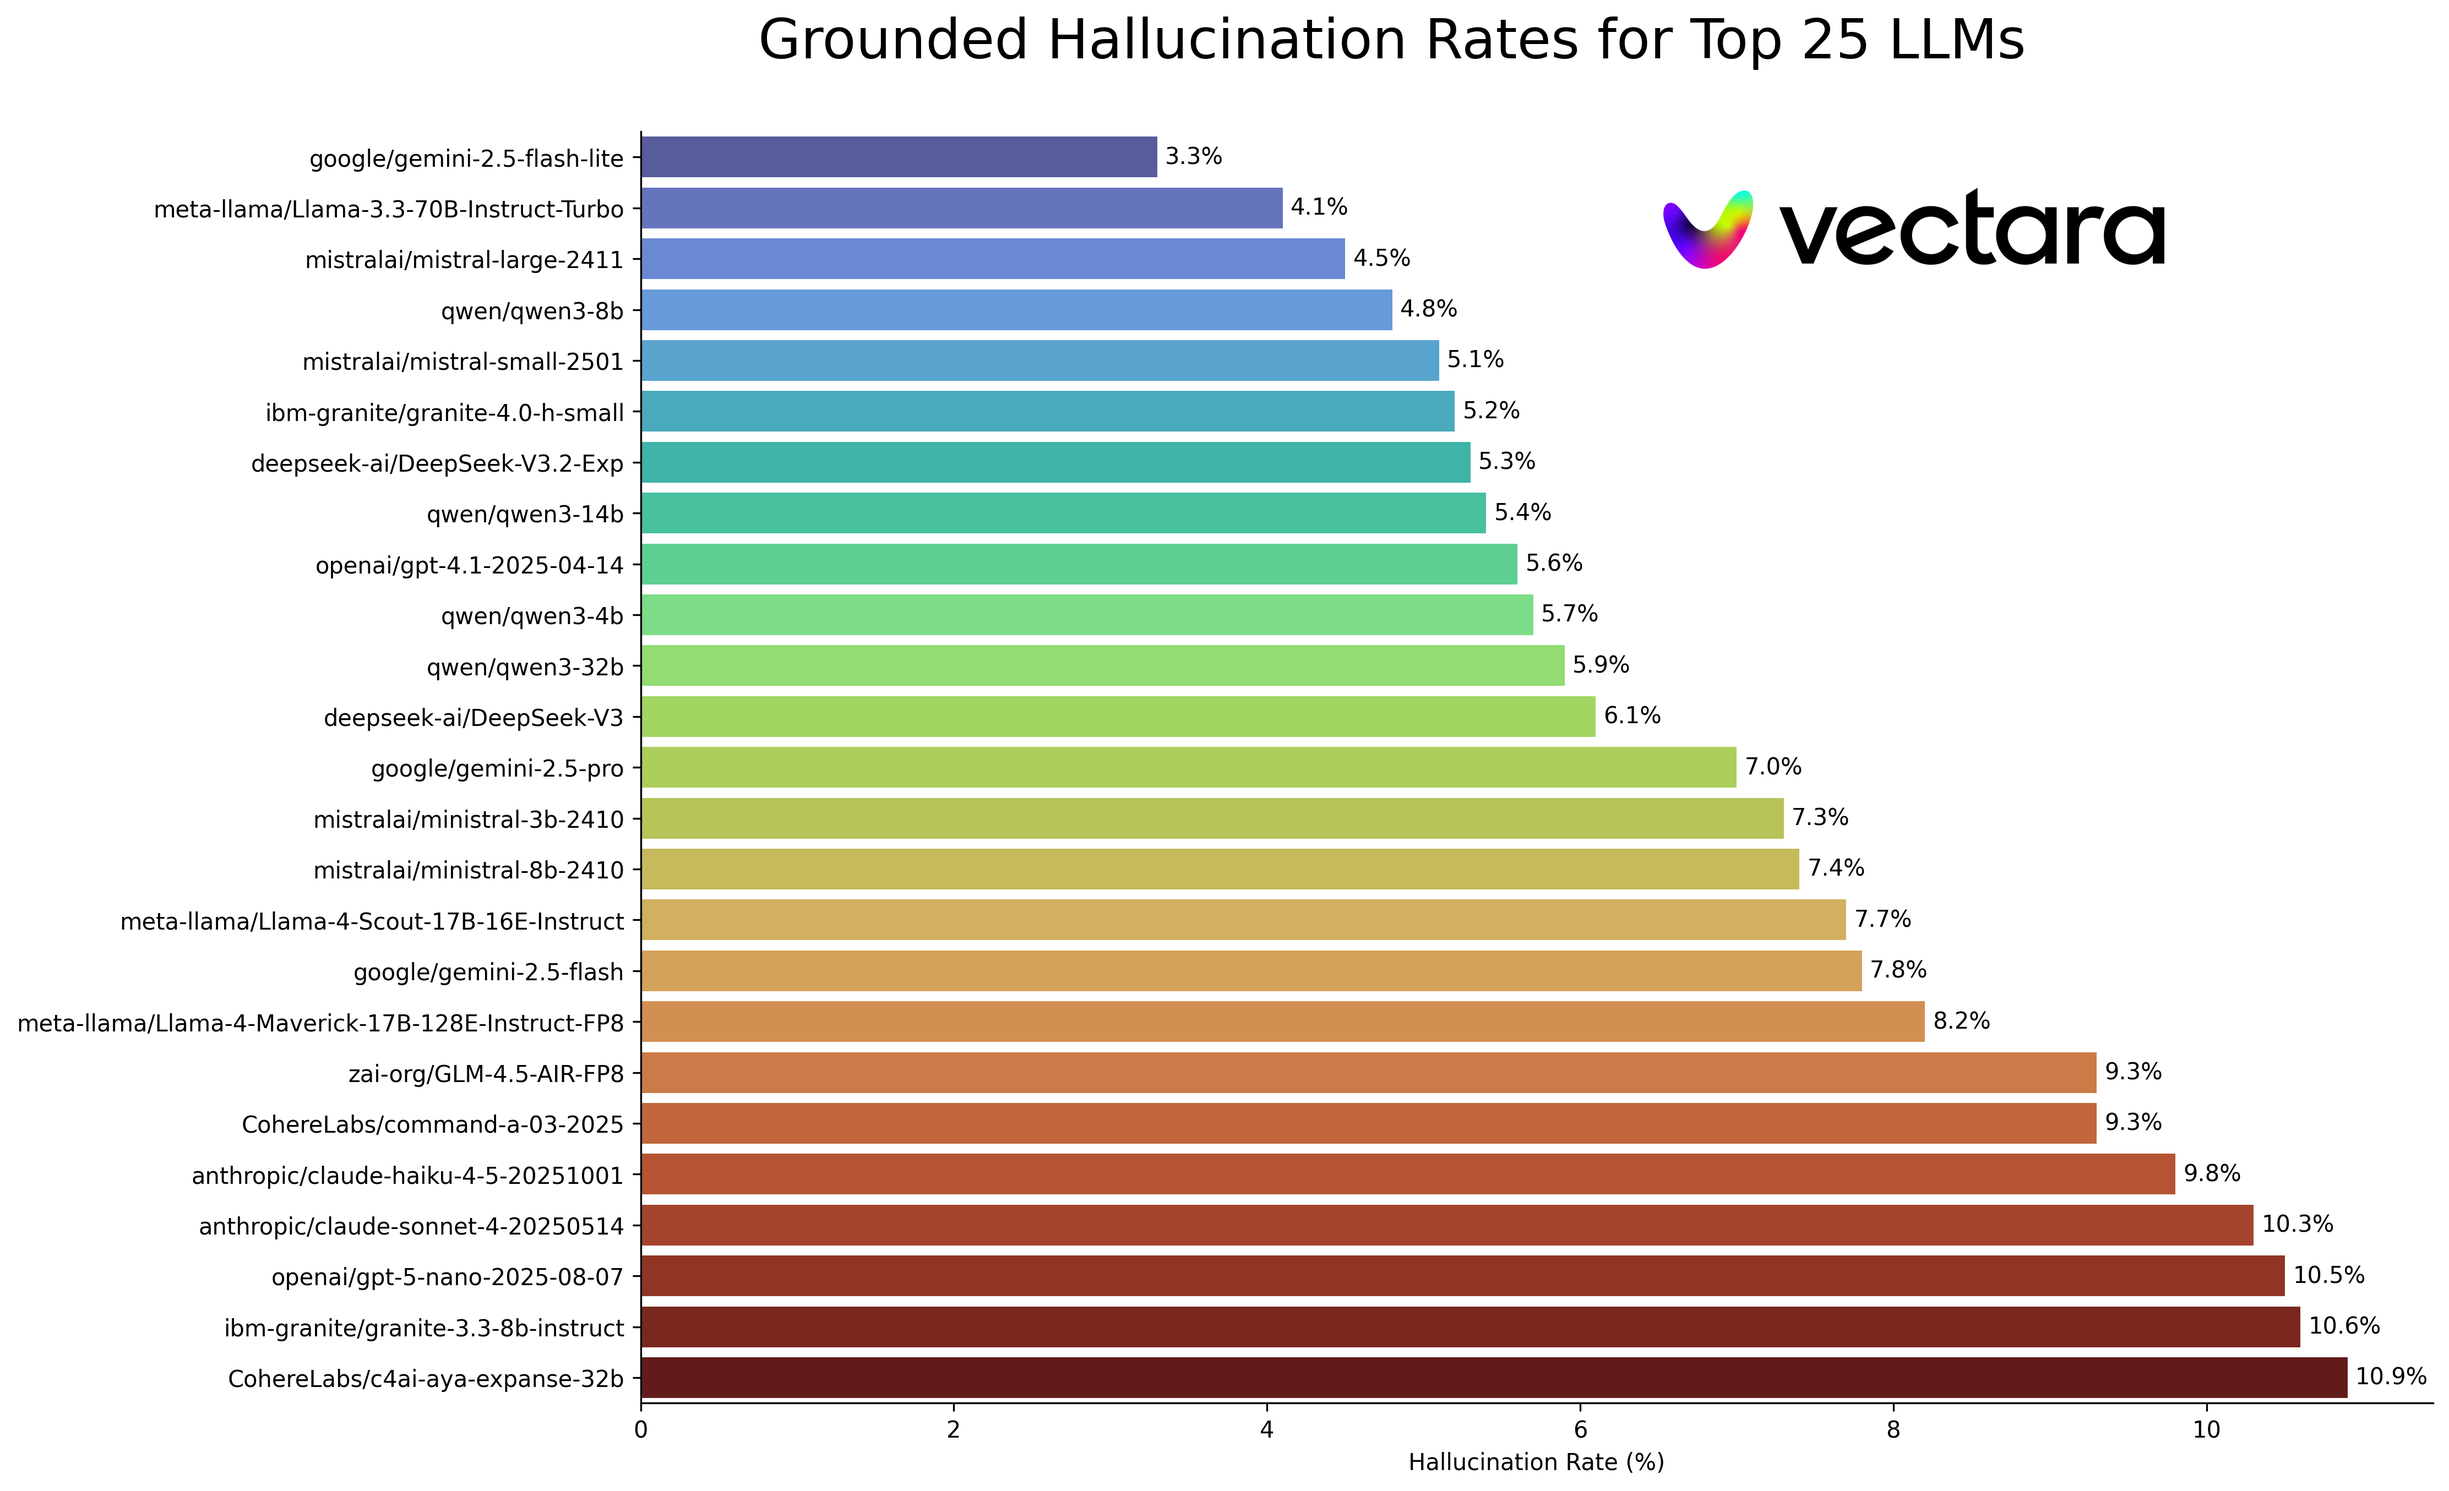
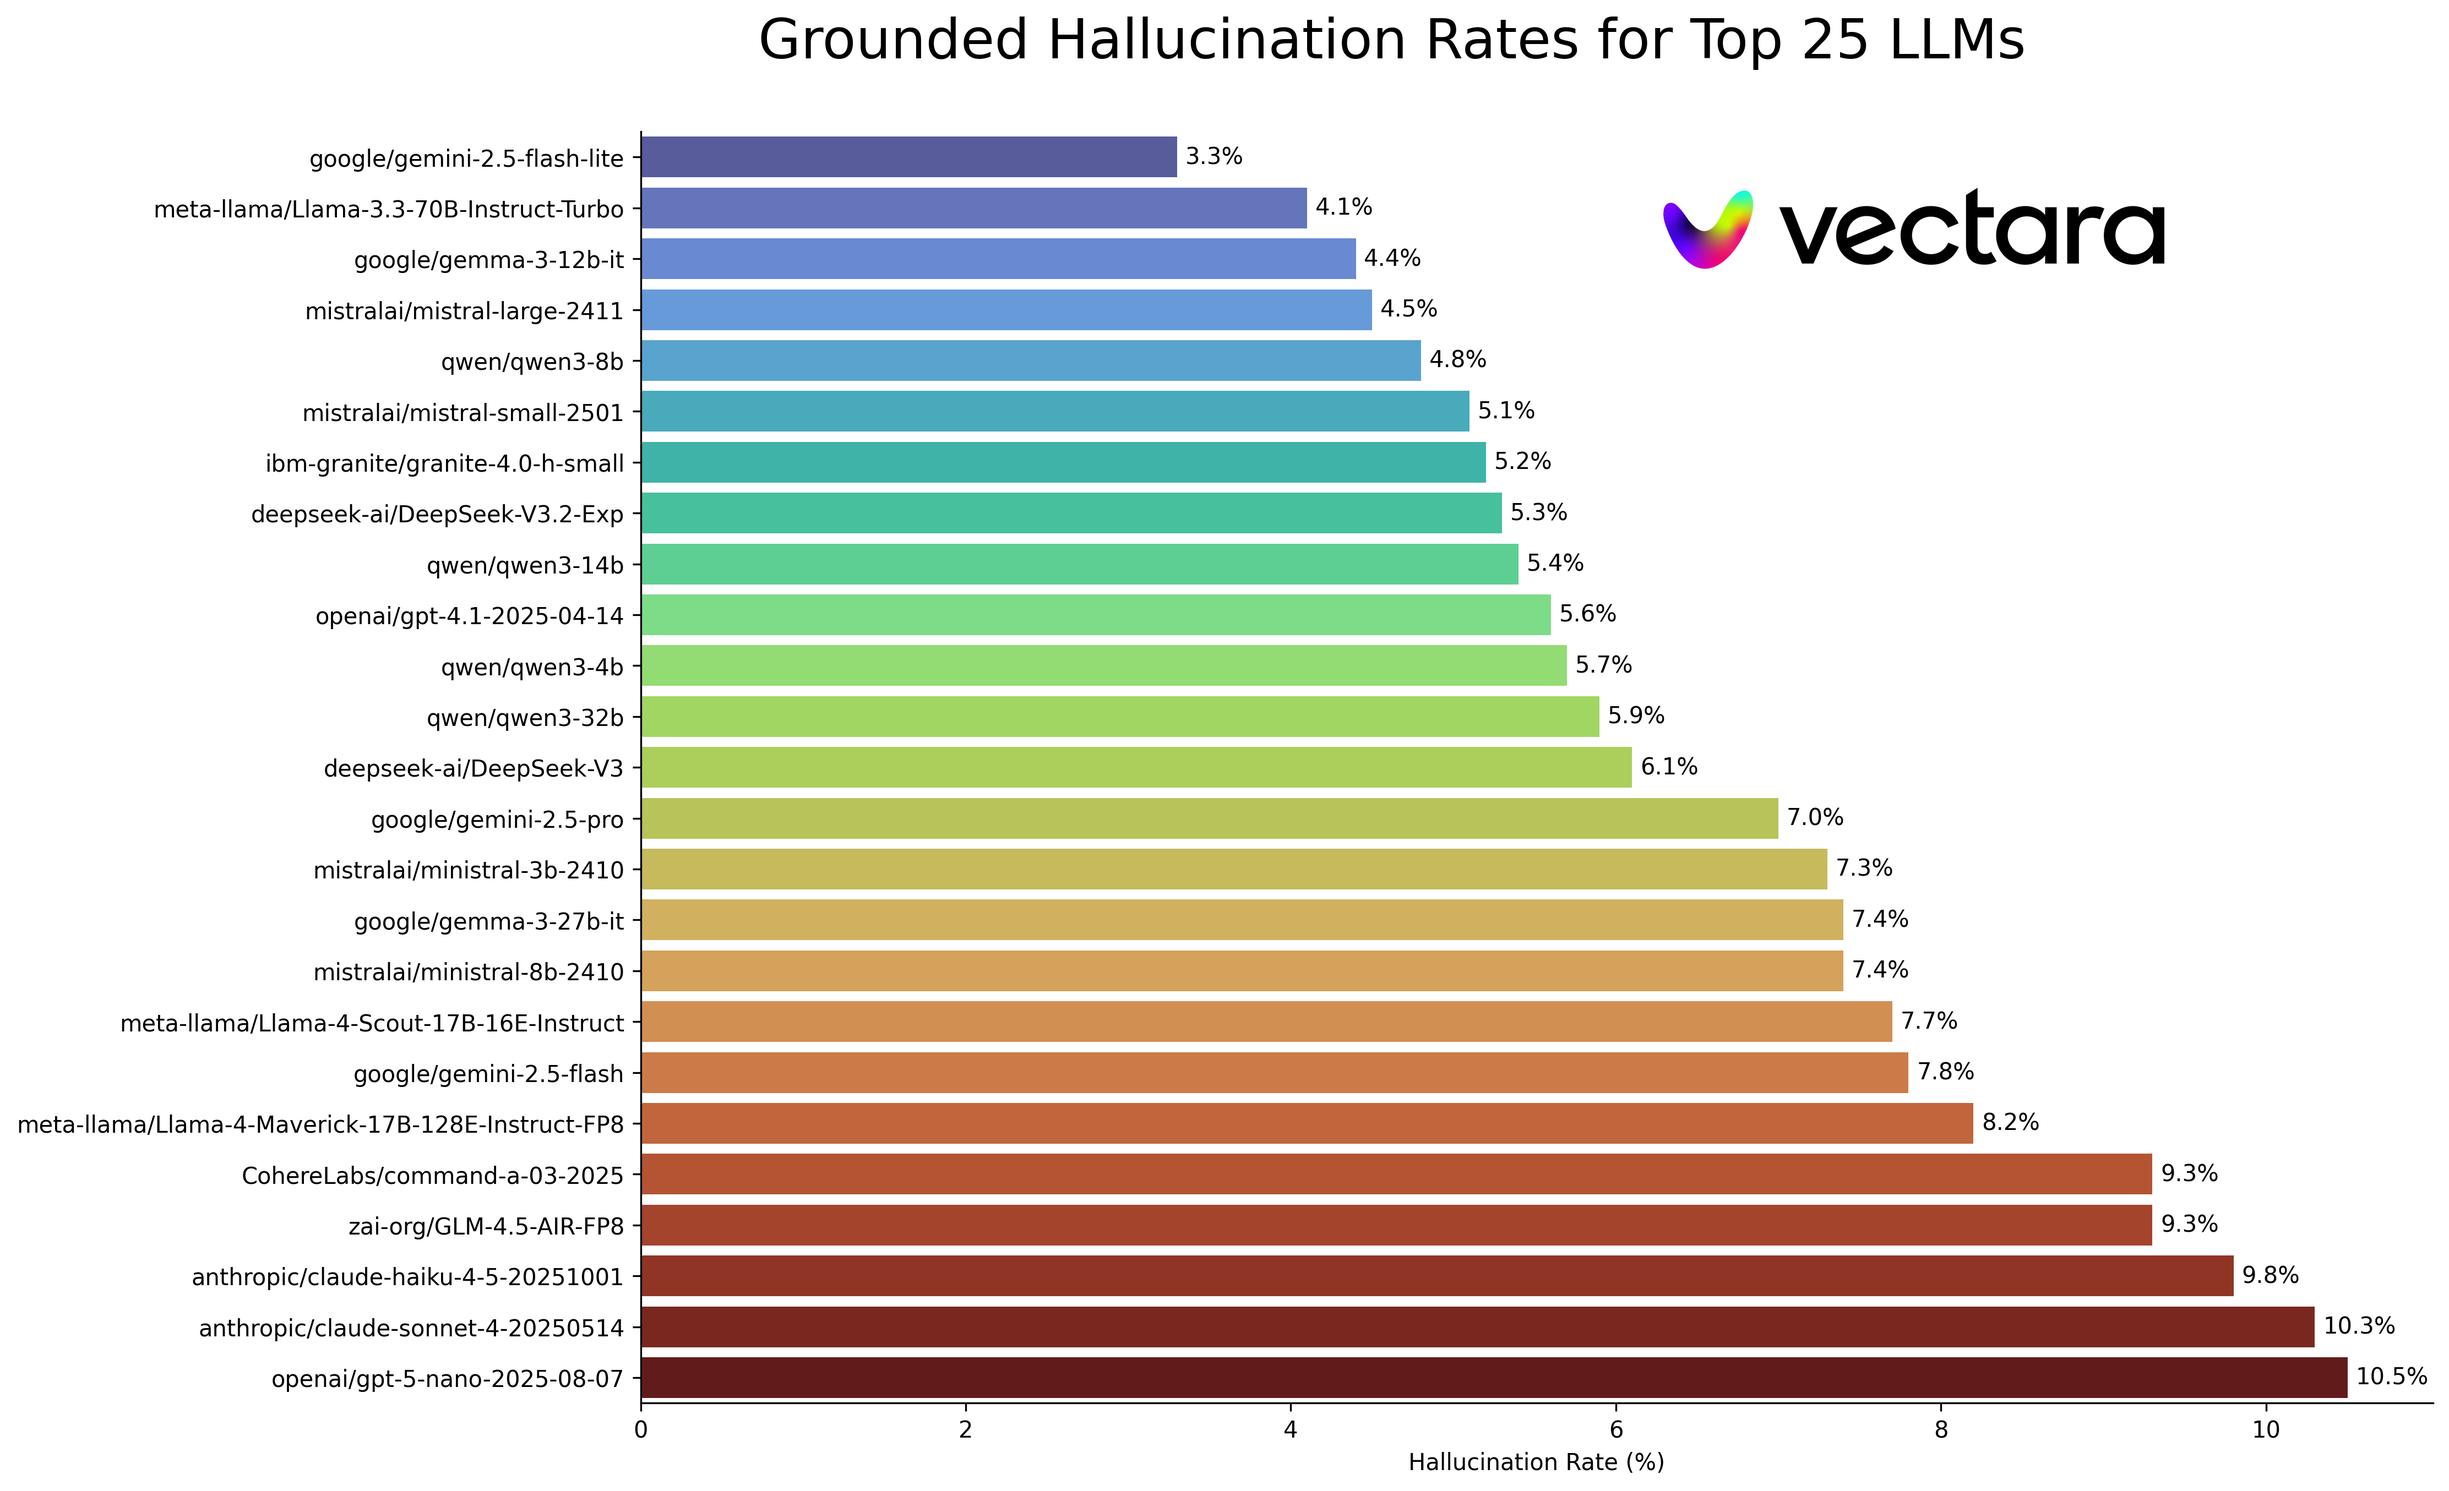
Auto-update leaderboard and plot

diff --git a/README.md b/README.md
@@ -30,6 +30,7 @@ Last updated on November 21, 2025
 |microsoft/Phi-4|3.7 %|96.3 %|80.7 %|120.9|
 |meta-llama/Llama-3.3-70B-Instruct-Turbo|4.1 %|95.9 %|99.5 %|64.6|
 |snowflake/snowflake-arctic-instruct|4.3 %|95.7 %|62.7 %|81.4|
+|google/gemma-3-12b-it|4.4 %|95.6 %|97.4 %|89.7|
 |mistralai/mistral-large-2411|4.5 %|95.5 %|99.9 %|85.0|
 |qwen/qwen3-8b|4.8 %|95.2 %|99.9 %|83.6|
 |mistralai/mistral-small-2501|5.1 %|94.9 %|97.9 %|98.8|
@@ -46,13 +47,14 @@ Last updated on November 21, 2025
 |CohereLabs/command-r-plus-08-2024|6.9 %|93.1 %|95.0 %|91.5|
 |google/gemini-2.5-pro|7.0 %|93.0 %|99.1 %|106.4|
 |mistralai/ministral-3b-2410|7.3 %|92.7 %|99.9 %|167.9|
+|google/gemma-3-27b-it|7.4 %|92.6 %|98.8 %|96.4|
 |mistralai/ministral-8b-2410|7.4 %|92.6 %|99.9 %|196.0|
 |meta-llama/Llama-4-Scout-17B-16E-Instruct|7.7 %|92.3 %|99.0 %|137.3|
 |google/gemini-2.5-flash|7.8 %|92.2 %|99.0 %|101.5|
 |meta-llama/Llama-4-Maverick-17B-128E-Instruct-FP8|8.2 %|91.8 %|100.0 %|106.0|
-|zai-org/GLM-4.5-AIR-FP8|9.3 %|90.7 %|98.1 %|70.6|
 |qwen/qwen3-next-80b-a3b-thinking|9.3 %|90.7 %|94.4 %|70.9|
 |CohereLabs/command-a-03-2025|9.3 %|90.7 %|97.6 %|101.7|
+|zai-org/GLM-4.5-AIR-FP8|9.3 %|90.7 %|98.1 %|70.6|
 |CohereLabs/c4ai-aya-expanse-8b|9.5 %|90.5 %|77.5 %|88.2|
 |zai-org/GLM-4.6|9.5 %|90.5 %|94.5 %|77.2|
 |openai/gpt-4o-2024-08-06|9.6 %|90.4 %|93.8 %|86.6|
@@ -60,19 +62,23 @@ Last updated on November 21, 2025
 |anthropic/claude-sonnet-4-20250514|10.3 %|89.7 %|98.6 %|145.8|
 |openai/gpt-5-nano-2025-08-07|10.5 %|89.5 %|100.0 %|105.7|
 |ibm-granite/granite-3.3-8b-instruct|10.6 %|89.4 %|100.0 %|131.4|
+|openai/gpt-5.1-low-2025-11-13|10.9 %|89.1 %|100.0 %|165.5|
 |CohereLabs/c4ai-aya-expanse-32b|10.9 %|89.1 %|99.8 %|112.7|
 |deepseek-ai/DeepSeek-R1|11.3 %|88.7 %|97.0 %|93.5|
 |anthropic/claude-opus-4-1-20250805|11.8 %|88.2 %|92.4 %|129.1|
-|anthropic/claude-sonnet-4-5-20250929|12.0 %|88.0 %|95.6 %|127.8|
 |anthropic/claude-opus-4-20250514|12.0 %|88.0 %|91.0 %|123.2|
+|anthropic/claude-sonnet-4-5-20250929|12.0 %|88.0 %|95.6 %|127.8|
+|openai/gpt-5.1-high-2025-11-13|12.1 %|87.9 %|100.0 %|254.4|
 |openai/gpt-5-mini-2025-08-07|12.9 %|87.1 %|99.9 %|169.7|
 |google/gemini-3-pro-preview|13.6 %|86.4 %|99.4 %|101.9|
 |openai/gpt-oss-120b|14.2 %|85.8 %|99.9 %|135.2|
 |openai/gpt-5-minimal-2025-08-07|14.7 %|85.3 %|99.9 %|109.7|
 |openai/gpt-5-high-2025-08-07|15.1 %|84.9 %|99.9 %|162.7|
+|xai-org/grok-4-1-fast-non-reasoning|17.8 %|82.2 %|98.5 %|87.5|
 |moonshotai/Kimi-K2-Instruct-0905|17.9 %|82.1 %|98.6 %|59.2|
 |openai/o4-mini-high-2025-04-16|18.6 %|81.4 %|99.2 %|127.7|
 |openai/o4-mini-low-2025-04-16|18.6 %|81.4 %|98.7 %|130.9|
+|xai-org/grok-4-1-fast-reasoning|19.2 %|80.8 %|99.7 %|99.5|
 |xai-org/grok-4-fast-non-reasoning|19.7 %|80.3 %|99.2 %|141.9|
 |xai-org/grok-4-fast-reasoning|20.2 %|79.8 %|99.5 %|173.9|
 |mistralai/mistral-medium-2508|22.7 %|77.3 %|99.7 %|142.9|
